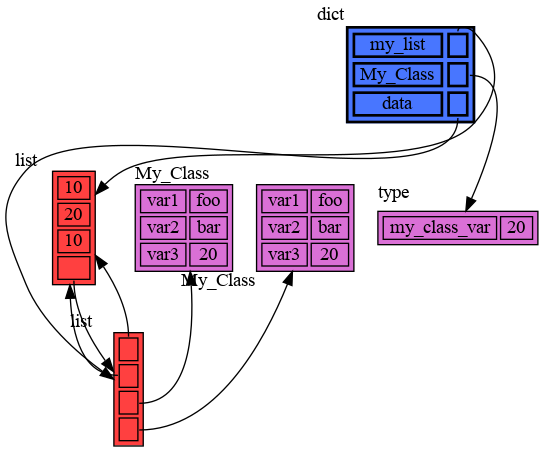
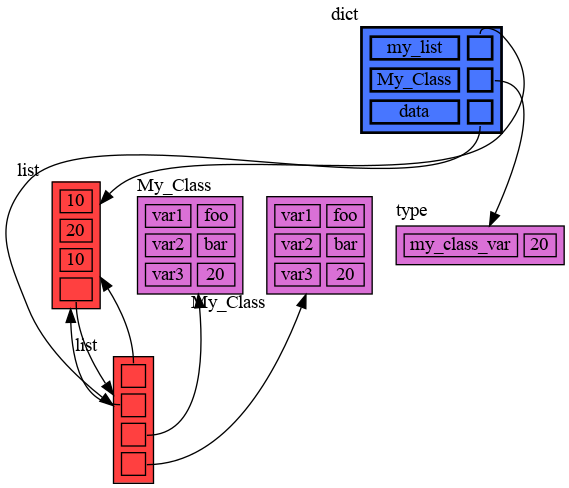
more spacing by default, added config option to README

diff --git a/memory_graph/graphviz_nodes.py b/memory_graph/graphviz_nodes.py
@@ -12,7 +12,7 @@ type_category_to_color_map={
 }
 uncategorized_color="red"
 padding=0
-spacing=3
+spacing=5
 
 
 taken_children=set()
@@ -45,7 +45,7 @@ def add_escape_chars(label):
 def get_element_label(element):
     value=element.get_value()
     if value is None:
-        return "&nbsp;"
+        return "&nbsp;&nbsp;"
     return add_escape_chars(str(value))
 
 def build_label_line(node,border=1):
@@ -57,7 +57,7 @@ def build_label_line(node,border=1):
             cells="<TR>"+ "".join( (f'<TD PORT="f{index}">{get_element_label(element)}</TD>' for index,element in enumerate(node.get_elements())) ) +"</TR>"
         table=f'<TABLE BORDER="{border}" CELLSPACING="{spacing}" CELLPADDING="{padding}">{cells}</TABLE>'
         return f'<<TABLE BORDER="0" CELLSPACING="0" CELLPADDING="0" BGCOLOR="{color}"><TR><TD PORT="X"> {table} </TD></TR></TABLE>>'
-    return f'<<TABLE BORDER="0" CELLBORDER="1" CELLSPACING="0" CELLPADDING="0" BGCOLOR="{color}"><TR><TD PORT="X"> &nbsp; </TD></TR></TABLE>>'
+    return f'<<TABLE BORDER="0" CELLBORDER="1" CELLSPACING="0" CELLPADDING="0" BGCOLOR="{color}"><TR><TD PORT="X"> &nbsp;&nbsp; </TD></TR></TABLE>>'
     
 def build_label_key_value(node,border=1):
     color=type_category_to_color(get_type_category(node))
@@ -73,7 +73,7 @@ def build_label_key_value(node,border=1):
                 break
             table=f'<TABLE BORDER="{border}" CELLSPACING="{spacing}" CELLPADDING="{padding}" BGCOLOR="{color}">{cells}</TABLE>'
         return f'<<TABLE BORDER="0" CELLSPACING="0" CELLPADDING="0"><TR><TD PORT="X"> {table} </TD></TR></TABLE>>'
-    return f'<<TABLE BORDER="0" CELLBORDER="1" CELLSPACING="0" CELLPADDING="0" BGCOLOR="{color}"><TR><TD PORT="X"> &nbsp; </TD></TR></TABLE>>'
+    return f'<<TABLE BORDER="0" CELLBORDER="1" CELLSPACING="0" CELLPADDING="0" BGCOLOR="{color}"><TR><TD PORT="X"> &nbsp;&nbsp; </TD></TR></TABLE>>'
     
 def get_node_label(node,border=1):
     if rewrite.is_dict_type(node.get_original_data()) or rewrite.is_type_with_dict(node.get_original_data()):

diff --git a/README.md b/README.md
@@ -91,6 +91,10 @@ Configure how the nodes of the graph are visualized with:
   - a mapping from type to color
 - ***memory_graph.graphviz_nodes.uncategorized_color*** : string
   - color used for uncategorized types
+- ***memory_graph.graphviz_nodes.padding*** : int
+  - amount of padding for node cells
+- ***memory_graph.graphviz_nodes.spacing*** : int
+  - amount of spacing for node cells
 
 See for color names: [graphviz colors](https://graphviz.org/doc/info/colors.html)
 
